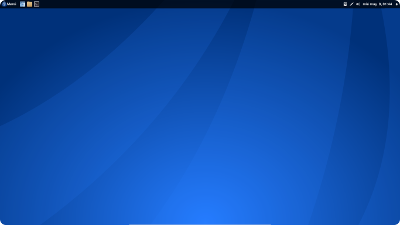
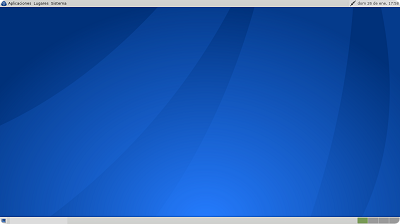
Set mate picture and modified packages.xml file to add some mate packages

Changed region(s): [[0.0, 0.9375, 1.0, 1.0], [0.0, 0.0, 1.0, 0.0625]]

diff --git a/data/css/gtk-style.css b/data/css/gtk-style.css
@@ -1,7 +1,6 @@
 
 #logo {
     background-color: transparent;
-    /* background-image: url('/usr/share/cnchi/data/images/header.png'); */
     background-position: top;
     background-repeat: no-repeat;
     background-size: 100% 100%;
